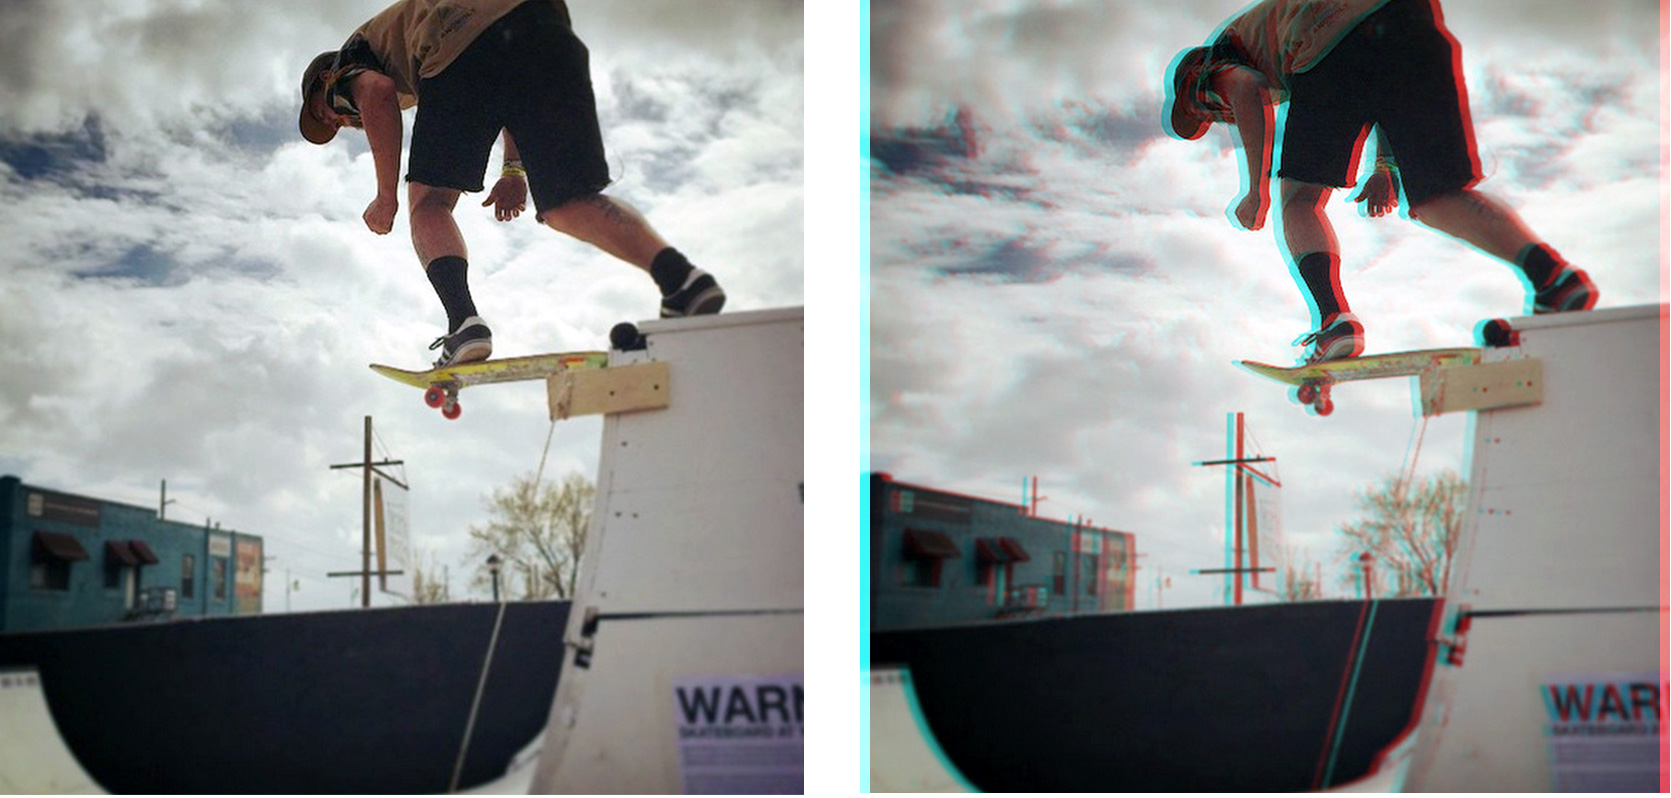
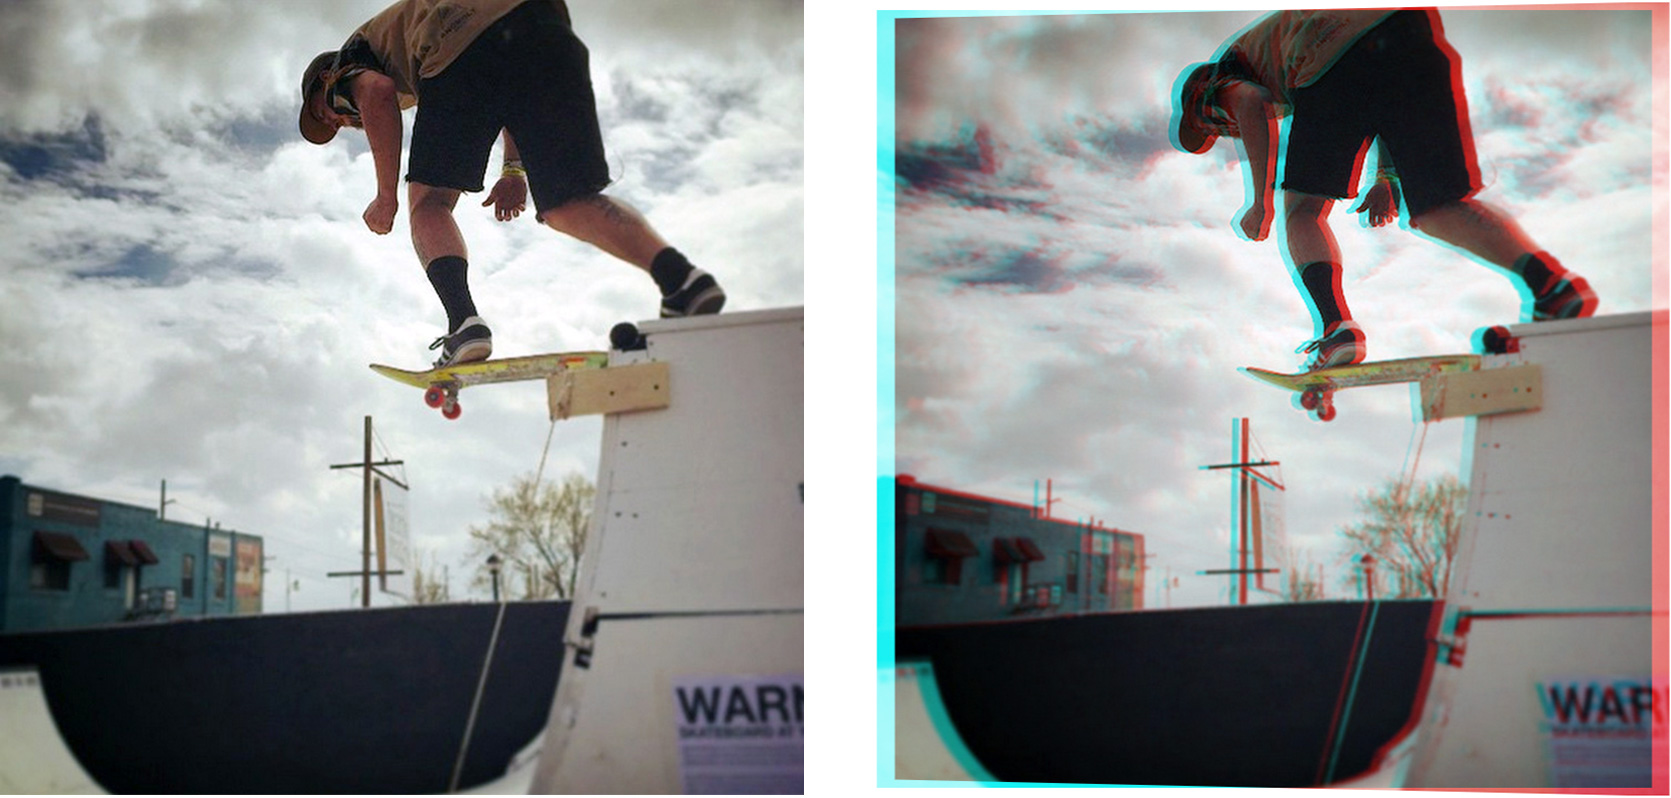
added perspective bit

Changed region(s): [[0.4979, 0.0, 1.0, 1.0]]

diff --git a/_posts/blog/2015-10-05-3d-effect.md b/_posts/blog/2015-10-05-3d-effect.md
@@ -20,9 +20,16 @@ header-bg: ../images/posts/css-effects/2/3dkids.jpg
 
 This is part of a series of posts breaking down visual effects using CSS filters and blend modes. Read [Part 1: The Vintage Washout Effect](/vintage-washout) for some background on the lighten blend mode and to learn how to make a nice faded photo effect. In this post, we'll look at how to recreate the 3D photo effect from films like *Spy Kids 3D!* (I don't know why that's the first thing that comes to mind, but deal with it).
 
+## 3D Images: AKA Anyglaphs
+
+
+<img style="max-width: 600px" src="../images/posts/css-effects/2/anaglyph.jpg" alt="" class="left">
+
+An anaglyph is a type of stereo 3D image created from two photographs taken approximately 2.5 inches apart, which is approximately the distance between human eyes.<sup><a href="http://stcroixstudios.com/wilder/anaglyph/whatsanaglyph.html">1</a></sup> This creates an illusion of depth and also means some people see 3D images in movies "better" than others depending on pupilary distance.
+
 ## The Dark Side
 
-In the last [post](/vintage-washout) in this series, I took a look at the **lighten** blend mode. In this post, we'll take a look at its evil twin -- the **darken** blend mode.
+Back to blend modes. In the last [post](/vintage-washout) in this series, I took a look at the **lighten** blend mode. In this post, we'll take a look at its evil twin -- the **darken** blend mode.
 
 Okay, why do I call it the evil twin? Mostly because puns, but let's take a look at what's going on here. Note: the blend mode is only applied to the top color block:
 
@@ -44,11 +51,13 @@ We can now use a bit of intersection to show the original image, and combine it 
 
 <img style="max-width: 600px" src="../images/posts/css-effects/2/3D-Avatar-movie.jpg" alt="" class="right">
 
-If you look at these images, there is a **red layer**, a **cyan layer**, and they are separated on either side of the original image by a certain distance value (we will use `$dist` for this value in the example `@mixin` below). So the steps for this are to use cyan and red as multiply backgrounds and blend those background with `background-blend-mode: lighten` to convert the dark tones to the respective colors. Then, we will position these elements a set distance apart from each other.
+If you look at these images, there is a **red layer**, a **cyan layer**, and they are separated on either side of the original image by a certain distance value to simulate the 2.5 inch gap between eyes (we will use `$dist` for this value in the example `@mixin` below). So the steps for this are to use cyan and red as multiply backgrounds and blend those background with `background-blend-mode: lighten` to convert the dark tones to the respective colors. Then, we will position these elements a set distance apart from each other and add a perspective afterward.
 
 <img style="max-width: 600px" src="../images/posts/css-effects/2/color-modes.jpg" alt="" class="left">
 
-Now it's not *quiet* that simple &mdash; but we are in luck. Keep in mind that we're working in the **RGB** color space. If we used a cyan and *yellow* instead of the cyan and red, the overlap would be *green* instead of the white we need to then show the original pixel value. The values that will mix best in this situation are pure RGB values like red `rgb(255, 0, 0)`, green `rgb(0, 255, 0)`, and blue `rgb(0, 0, 255)`, but cyan `rgb(0,255,255)` also works.
+Now it's not *quiet* that simple with selecting colors for this &mdash; but we are in luck. Keep in mind that we're working in the **RGB** color space. If we used a cyan and *yellow* instead of the cyan and red, the overlap would be *green* instead of the white we need to then show the original pixel value. The values that will mix best in this situation are pure RGB values like red `rgb(255, 0, 0)`, green `rgb(0, 255, 0)`, and blue `rgb(0, 0, 255)`, but cyan `rgb(0,255,255)` also works.
+
+<small>Note: sometimes people use green and red instead of blue and red for this effect anyway.</small>
 
 
 ## Blending the Blend Modes
@@ -63,7 +72,9 @@ This is where the magic of blend mode math comes in! Now we simply apply a *dark
 <p data-height="487" data-theme-id="5255" data-slug-hash="epvReb" data-default-tab="result" data-user="una" class='codepen'>See the Pen <a href='http://codepen.io/una/pen/epvReb/'>3D Effect Part 2</a> by Una Kravets (<a href='http://codepen.io/una'>@una</a>) on <a href='http://codepen.io'>CodePen</a>.</p>
 <script async src="//assets.codepen.io/assets/embed/ei.js"></script>
 
-I'm going to desaturate it a bit and get rid of those outlines:
+## Perspective
+
+The next step is perspective. We can use the `perspective` and `transform: rotateY` properties to get the illusion outlined in the first figure where each image is inverting from each side. So on the cyan bit, it is: `perspective: 400px; transform: rotateY(5deg);` (400px being the width of the image) and on the red part, I have halved the rotation angle since it is inheriting from its parent, so it is: `perspective: -400px; transform: rotateY(-2.5deg);`. I'm also going to desaturate with `filter: saturate(.8)` and get rid of those outlines:
 
 <p data-height="495" data-theme-id="5255" data-slug-hash="bVqRLY" data-default-tab="result" data-user="una" class='codepen'>See the Pen <a href='http://codepen.io/una/pen/bVqRLY/'>3D Effect Part 3</a> by Una Kravets (<a href='http://codepen.io/una'>@una</a>) on <a href='http://codepen.io'>CodePen</a>.</p>
 <script async src="//assets.codepen.io/assets/embed/ei.js"></script>
@@ -91,6 +102,8 @@ play around with colors
   -webkit-filter: saturate(0.75);
           filter: saturate(0.75);
   z-index: 1;
+  -webkit-transform: rotateY(15deg);
+        transform: rotateY(15deg);
   background: url('../images/posts/css-effects/2/robot.jpg'), cyan;
   background-blend-mode: lighten;
   background-size: cover;
@@ -102,6 +115,8 @@ play around with colors
   width: 100%;
   height: 400px;
   z-index: 2;
+  -webkit-transform: rotateY(7.5deg);
+        transform: rotateY(7.5deg);
   background: url('../images/posts/css-effects/2/robot.jpg'), red;
   background-blend-mode: lighten;
   margin-left: 5px;
@@ -115,11 +130,13 @@ play around with colors
 Sass (.scss)
 
 ```
-@mixin three-dee($img, $dist: 5px, $width: 100%, $height: 500px) {
+@mixin three-dee($img, $dist: 5px, $deg: 5deg, $width: 100%, $height: 500px) {
     z-index: 1;
     width: $width;
     height: $height;
     position: relative;
+    transform: rotateY($deg);
+    perspective: $width;
     background: url('#{$img}'), cyan;
     background-blend-mode: lighten;
     background-size: cover;
@@ -131,7 +148,9 @@ Sass (.scss)
     width: $width;
     height: $height;
     z-index: 2;
+    perspective: -$width;
     margin-left: $dist;
+    transform: rotateY(-$deg/2);
     background: url('#{$img}'), red;
     background-blend-mode: lighten;
     background-size: cover;
@@ -140,7 +159,7 @@ Sass (.scss)
 }
 
 .cats-in-action {
-  @include three-dee('img/cat.jpg', 5px, 800px, 600px);
+  @include three-dee('img/cat.jpg', 5px, 10deg, 800px, 600px);
 }
 ```
 
@@ -152,6 +171,8 @@ CSS Output:
   width: 800px;
   height: 600px;
   position: relative;
+  transform: rotateY(10deg);
+  perspective: 800px;
   background: url("img/cat.jpg"), cyan;
   background-blend-mode: lighten;
   background-size: cover;
@@ -163,13 +184,19 @@ CSS Output:
   width: 800px;
   height: 600px;
   z-index: 2;
+  perspective: -800px;
   margin-left: 5px;
+  transform: rotateY(-5deg);
   background: url("img/cat.jpg"), red;
   background-blend-mode: lighten;
   background-size: cover;
   mix-blend-mode: darken;
 }
 ```
+
+![3D Effect on Tahoe Image](../images/posts/css-effects/2/threedtahoe.png)
+<p class="caption">This uses the mixin without desaturation: `@include three-dee( 'http://una.im/images/posts/blend-modes/tahoe-prefilter.jpg', 5px, 7deg, 500px, 500px);`
+</p>
 
 **tl;dr: Get your 3D glasses ready, because lighten / darken blend modes, and cmyk color mixing is here**
 
